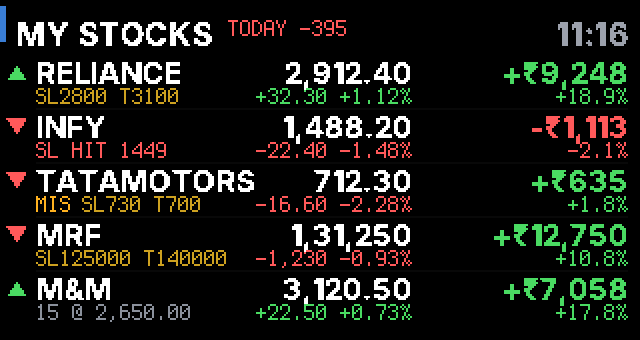
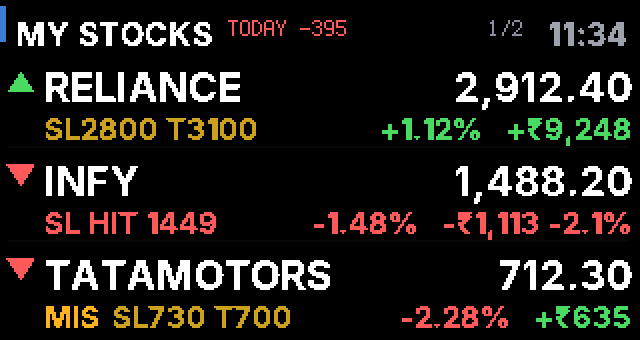
My stocks: three stocks a page in large type
Each stock now takes two lines: symbol and LTP in 20 px type, then
quantity/average (or the alert levels), today's % and total P&L in 15 px
type. Long names and big prices fit without being cut.

Claude-Session: https://claude.ai/code/session_01Sfdt7SSnBsuuKXSBpK9YVa

diff --git a/t-display-dashboard/code.py b/t-display-dashboard/code.py
@@ -2725,7 +2725,7 @@ EXTRA["todo"] = todo_screen
 # today's move and your P&L, five to a page (more go on page 2, 3...).  The picks
 # are saved as STOCK_PICKS, which can also be set in settings.toml: holdings by
 # symbol, positions as SYMBOL:PRODUCT ("RELIANCE,M&M,NIFTY25NOV24000CE:NRML").
-STOCK_ROWS = 5
+STOCK_ROWS = 3                  # big type: three to a page
 STOCK_PAGE_SECONDS = 6
 STOCK_MAX = 30
 
@@ -2903,7 +2903,8 @@ def check_alerts(rows):
 
 
 class StocksScreen(Screen):
-    MID = 206                       # right edge of the price column
+    ROW_H = 47                      # three big rows a page
+    F1, F2 = F_NEWS2, F_MED         # first and second line of a row
 
     def __init__(self):
         global root
@@ -2913,32 +2914,32 @@ class StocksScreen(Screen):
         self.pg = text(F_SMALL, "", 262, 8, 0x8A9099, right=True)
         self.rows = []
         for i in range(STOCK_ROWS):
-            y = 29 + i * 27
+            y = 30 + i * self.ROW_H
             shapes = []
-            for colour, pts, dy in ((GREEN, [(0, 8), (5, 0), (10, 8)], 3),     # up
-                                    (RED, [(0, 0), (10, 0), (5, 8)], 3)):     # down
+            for colour, pts, dy in ((GREEN, [(0, 11), (7, 0), (14, 11)], 5),   # up
+                                    (RED, [(0, 0), (14, 0), (7, 11)], 5)):    # down
                 p = displayio.Palette(1)
                 p[0] = colour
                 shapes.append(vectorio.Polygon(pixel_shader=p, x=3, y=y + dy, points=pts))
             fp = displayio.Palette(1)
             fp[0] = 0x6A727B
-            shapes.append(vectorio.Rectangle(pixel_shader=fp, x=3, y=y + 6, width=10, height=3))
+            shapes.append(vectorio.Rectangle(pixel_shader=fp, x=3, y=y + 9, width=14, height=3))
             for s in shapes:
                 s.hidden = True
                 root.append(s)
-            sep = vectorio.Rectangle(pixel_shader=pal, width=296, height=1, x=18, y=y - 2,
+            sep = vectorio.Rectangle(pixel_shader=pal, width=310, height=1, x=4, y=y - 4,
                                      color_index=10)
             sep.hidden = True
             if i:
                 root.append(sep)
             self.rows.append(shapes + [
-                text(F_MED, "", 18, y - 5, WHITE),                      # symbol
-                text(F_MED, "", self.MID, y - 5, WHITE, right=True),    # price
-                text(F_MED, "", 314, y - 5, WHITE, right=True),         # P&L
-                text(F_SMALL, "", 18, y + 13, 0x8A9099),                # qty @ avg
-                text(F_SMALL, "", self.MID, y + 13, WHITE, right=True),  # today
-                text(F_SMALL, "", 314, y + 13, WHITE, right=True),      # P&L %
-                text(F_SMALL, "", 18, y + 13, 0xFFB020),                # MIS / NRML / CNC
+                text(self.F1, "", 22, y - 3, WHITE),                    # symbol
+                text(self.F1, "", 316, y - 3, WHITE, right=True),       # price
+                text(self.F2, "", 316, y + 22, WHITE, right=True),      # P&L (rupees and %)
+                text(self.F2, "", 22, y + 22, 0x8A9099),                # qty @ avg, or the alert levels
+                text(self.F2, "", 200, y + 22, WHITE, right=True),      # today's move
+                text(F_SMALL, "", 0, 0, WHITE),                         # (not used)
+                text(self.F2, "", 22, y + 22, 0xFFB020),                # MIS / NRML / CNC
                 sep])
         self.empty = [text(F_MED, "", 160, 80, 0xB8C0C8, center=True),
                       text(F_SMALL, "", 160, 104, 0x8A9099, center=True)]
@@ -3031,17 +3032,15 @@ class StocksScreen(Screen):
             dn.hidden = not chg < 0
             flat.hidden = chg != 0
             sep.hidden = False
+            # line 1: symbol ........ price          line 2: qty/levels   today %   P&L
             _set(ltp_l, price(ltp))
-            _set(chg_l, "%s %+.2f%%" % (price(chg, True), chg / close * 100 if close else 0.0), c_col)
-            _set(pnl_l, inr(pnl, signed=True), p_col)
-            _set(pct_l, "%+.1f%%" % pnl_pct, p_col)
-            room = self.MID - px_width(F_MED, ltp_l.text) - 26
+            room = 316 - px_width(self.F1, ltp_l.text) - 34
             name = _screen_text(sym)
-            if px_width(F_MED, name) > room:
+            if px_width(self.F1, name) > room:
                 name = fo_short(name)            # options/futures: drop the expiry before cutting
-            _set(sym_l, _fit(F_MED, name, room))
+            _set(sym_l, _fit(self.F1, name, room))
             _set(tag_l, prod)                    # positions: the product, in amber
-            hx = 18 + (px_width(F_SMALL, prod) + 5 if prod else 0)
+            hx = 22 + (px_width(self.F2, prod) + 6 if prod else 0)
             if held_l.anchored_position[0] != hx:
                 held_l.anchored_position = (hx, held_l.anchored_position[1])
             al = (CFG.get("STOCK_ALERTS") or {}).get(_key)
@@ -3052,8 +3051,18 @@ class StocksScreen(Screen):
                 held, h_col = " ".join(x for x in (("SL" + _lvl(al[0])) if al[0] else "",
                                                    ("T" + _lvl(al[1])) if al[1] else "") if x), 0xC9A227
             else:
-                held, h_col = "%d @ %s" % (qty, price(avg)), 0x8A9099
-            _set(held_l, _fit(F_SMALL, held, self.MID - px_width(F_SMALL, chg_l.text) - 6 - hx), h_col)
+                held, h_col = "%d @ %s" % (qty, group_in(int(avg + 0.5)) if avg >= 1000 else price(avg)), 0x8A9099
+            day_t = "%+.2f%%" % (chg / close * 100 if close else 0.0)
+            pnl_t = inr(pnl, signed=True) + " %+.1f%%" % pnl_pct
+            F2 = self.F2
+            if hx + px_width(F2, held) + 12 + px_width(F2, day_t) + 12 + px_width(F2, pnl_t) > 316:
+                pnl_t = inr(pnl, signed=True)        # no room: the rupee figure alone
+            _set(pnl_l, pnl_t, p_col)
+            day_x = 316 - px_width(F2, pnl_t) - 12
+            if chg_l.anchored_position[0] != day_x:
+                chg_l.anchored_position = (day_x, chg_l.anchored_position[1])
+            _set(chg_l, day_t, c_col)
+            _set(held_l, _fit(F2, held, day_x - px_width(F2, day_t) - 10 - hx), h_col)
         if rows:
             a = b = ""
         elif not self.picks:

diff --git a/t-display-dashboard/README.md b/t-display-dashboard/README.md
@@ -21,7 +21,7 @@ A Wi-Fi desk dashboard for the **LilyGO T-Display-S3** (ESP32-S3, 1.9" 320×170 
 | **News** | Top 10 India headlines, one at a time in large text, with source and a progress bar | Google News India RSS (falls back to The Hindu, then Times of India) |
 | **To-do** | Your task list: due dates (overdue in red), high-priority marks, ticked-off tasks | Managed at `/todo` on your phone, kept on the board |
 | **Ask AI** | Your question and Gemini's answer, in the biggest type that fits; stays until you ask again | Gemini API (your key); asked at `/ask` on your phone |
-| **My stocks** | The holdings and open positions you pick: price (LTP), today's move (▲/▼ in ₹ and %) and your P&L (₹ and %), five per page | Kite holdings and positions; picked at `/stocks` on your phone |
+| **My stocks** | The holdings and open positions you pick: price (LTP), today's move (▲/▼ and %) and your P&L (₹ and %) in large type, three per page | Kite holdings and positions; picked at `/stocks` on your phone |
 | **Holdings heatmap** | A tile per stock, sized by value, coloured by today's move | Kite holdings |
 | **Stat of the day** | A player's international numbers this year plus career line; a cricket fact when offline | ESPNcricinfo Statsguru |
 | **Trivia** | An India quiz question; the answer lights up after 30 s | `trivia_india.txt` on the board (241 questions, add your own) |
@@ -73,8 +73,8 @@ The original grey look:
 
 - **To-do:** open `http://<board-ip>:8080/todo` to add tasks (with an optional due date and high priority), tick them off, edit, reorder, sort by priority and due date, and clear done ones. The board shows five at a time and pages through the rest every 6 seconds (BOOT for the next page). Due dates read "Today", "Tomorrow", a weekday, a date, or "3d late" in red. The list is kept on the board (NVM). Phone shortcuts can add tasks with `/todo/add?t=Buy+milk` (optional `&p=1` for high priority, `&d=2026-11-20` for a due date), and `/todo.json` returns the list. The screen font is English letters only, so other scripts show as "?" on the board (they're kept on the web page).
 - **Ask AI:** put `GEMINI_API_KEY = "..."` in `settings.toml` (a key from Google AI Studio; it is only read from that file and never shown on the web pages), copy `google_roots.pem` next to `code.py` (CircuitPython's built-in certificate list doesn't cover Google's API servers; without the file the page reports `MBEDTLS_ERR_X509_FATAL_ERROR`), restart, then open `/ask` ("Ask AI" on the home page), type a question and press Ask. The board asks Gemini for a plain-text answer of at most 420 characters, jumps to the Ask AI screen and shows it in the largest of four type sizes that fits. The answer stays there, also after a restart, until you ask something else or press clear. The first question puts the screen in the rotation (after Weather); with no answer yet it is skipped. `GEMINI_MODEL` picks the model (default `gemini-flash-latest`). If Google refuses, the page shows its message and the board keeps the previous answer.
-- **My stocks:** open `http://<board-ip>:8080/stocks` (or "My stocks" on the home page) and tap **+ Add** next to the holdings or open positions you want; ▲ ▼ reorder them, ✕ removes one, and there's Add all, Sort A-Z, Remove closed and Remove all. Positions are the ones on Kite's Positions page: intraday (MIS), F&O (NRML) and delivery shares bought today (CNC, which move to holdings the next day). On the board they carry the product in amber under the symbol, and an option or future whose full name doesn't fit drops its expiry (`NIFTY 24000 CE`). A position's P&L is worked out like Kite's (sell value − buy value + quantity × LTP), and a short shows a negative quantity. A picked position that has been closed is hidden on the board and marked "position closed" on the page. Each row on the board shows the symbol with your quantity and average price, the LTP with today's change per share and %, and your total P&L in ₹ and %. A green ▲ means the stock is up today, a red ▼ down, a grey bar unchanged; the header adds up today's ₹ move across your picks. Five stocks fit on a page; with more, the board flips pages every 6 seconds (BOOT for the next page) and stays on the screen long enough to show them all. Prices refresh every `KITE_EVERY` seconds (5) while this screen is up in market hours. Picking your first stock turns the screen on (after Portfolio) if it was off. The picks are kept on the board (up to 30), survive restarts and the Settings reset, and can also be set as `STOCK_PICKS` in `settings.toml` (positions as `SYMBOL:PRODUCT`). Skipped in the rotation until you log in to Kite.
-- **Stop-loss and target alerts (My stocks):** on `/stocks` every picked stock has Stop-loss and Target boxes; fill in either or both and press Set (empty both to remove). Type your [ntfy](https://ntfy.sh) topic in the Alerts box at the top once and press "Send a test" (install the ntfy app on your phone and subscribe to the same topic). When the price reaches a level, the board sends one notification ("RELIANCE: stop-loss hit", with the price, today's move and your P&L) and the row shows `SL HIT` in red or `TGT HIT` in green until you set the alert again. Before that, the row's small line takes turns every 3 seconds between your quantity and average and the levels (`SL2800 T3100`, in amber). For a short position the stop-loss sits above the price and the target below. A level that would trigger straight away is refused. Prices are checked whenever they refresh: every `KITE_EVERY` seconds (5) while My stocks is on screen in market hours, otherwise about once a minute; nothing is checked while you're logged out of Kite or the board is off. If a notification can't be sent the alert stays armed and is retried a minute later. Alerts and the topic are kept on the board (also over restarts and the Settings reset); `NTFY_TOPIC` and `NTFY_SERVER` can also go in `settings.toml`. Anyone who knows an ntfy topic name can read it, so keep it unguessable.
+- **My stocks:** open `http://<board-ip>:8080/stocks` (or "My stocks" on the home page) and tap **+ Add** next to the holdings or open positions you want; ▲ ▼ reorder them, ✕ removes one, and there's Add all, Sort A-Z, Remove closed and Remove all. Positions are the ones on Kite's Positions page: intraday (MIS), F&O (NRML) and delivery shares bought today (CNC, which move to holdings the next day). On the board they carry the product in amber under the symbol, and an option or future whose full name doesn't fit drops its expiry (`NIFTY 24000 CE`). A position's P&L is worked out like Kite's (sell value − buy value + quantity × LTP), and a short shows a negative quantity. A picked position that has been closed is hidden on the board and marked "position closed" on the page. Each stock takes two lines in large type: the symbol and its LTP on the first; on the second your quantity and average price, today's change in % and your total P&L in ₹ and % (the % is dropped when the line is full). A green ▲ means the stock is up today, a red ▼ down, a grey bar unchanged; the header adds up today's ₹ move across your picks. Three stocks fit on a page; with more, the board flips pages every 6 seconds (BOOT for the next page) and stays on the screen long enough to show them all. Prices refresh every `KITE_EVERY` seconds (5) while this screen is up in market hours. Picking your first stock turns the screen on (after Portfolio) if it was off. The picks are kept on the board (up to 30), survive restarts and the Settings reset, and can also be set as `STOCK_PICKS` in `settings.toml` (positions as `SYMBOL:PRODUCT`). Skipped in the rotation until you log in to Kite.
+- **Stop-loss and target alerts (My stocks):** on `/stocks` every picked stock has Stop-loss and Target boxes; fill in either or both and press Set (empty both to remove). Type your [ntfy](https://ntfy.sh) topic in the Alerts box at the top once and press "Send a test" (install the ntfy app on your phone and subscribe to the same topic). When the price reaches a level, the board sends one notification ("RELIANCE: stop-loss hit", with the price, today's move and your P&L) and the row shows `SL HIT` in red or `TGT HIT` in green until you set the alert again. Before that, the row's second line takes turns every 3 seconds between your quantity and average and the levels (`SL2800 T3100`, in amber). For a short position the stop-loss sits above the price and the target below. A level that would trigger straight away is refused. Prices are checked whenever they refresh: every `KITE_EVERY` seconds (5) while My stocks is on screen in market hours, otherwise about once a minute; nothing is checked while you're logged out of Kite or the board is off. If a notification can't be sent the alert stays armed and is retried a minute later. Alerts and the topic are kept on the board (also over restarts and the Settings reset); `NTFY_TOPIC` and `NTFY_SERVER` can also go in `settings.toml`. Anyone who knows an ntfy topic name can read it, so keep it unguessable.
 - **Holdings heatmap:** a squarified treemap of your Kite holdings (up to 16 tiles; the rest fold into "+N MORE"). Skipped in the rotation until you log in.
 - **Cricket:** scores come from Cricbuzz's match data (free, no key), the same data its match page shows: score and overs per innings, both batters with runs and balls (the striker has a *), and on the ticker the match status, run rates, the bowler's figures, recent balls and the last wicket. It's not an official API, so it can change; `/cricket/debug` shows what the board last got. Open `/cricket` ("Cricket matches" on the home page) and tap **+ Follow** on each match you want; ✕ stops one, **show** jumps the board to it. With more than one, the cricket screen shows each for `CRICKET_MATCH_SECONDS` (8) with "2/3" in the corner, BOOT skips to the next, and it stays up long enough to show them all. The followed matches survive restarts; one that has left the live feed (finished) for 30 minutes is dropped. `CRICKET_TEAM` takes several teams (`India, Mumbai Indians`) and follows their new matches automatically, but not one you stopped following. One feed read refreshes every match; overs and batters are fetched for the match on screen.
 - **Stat of the day:** one player per day from `STAT_PLAYERS` (Cricinfo player ids). Shows this year's runs or wickets, five key numbers and the career line, refreshed every 6 hours. If Statsguru can't be read it shows a cricket fact instead; `/stat/debug` on the board's web page shows what it got.
